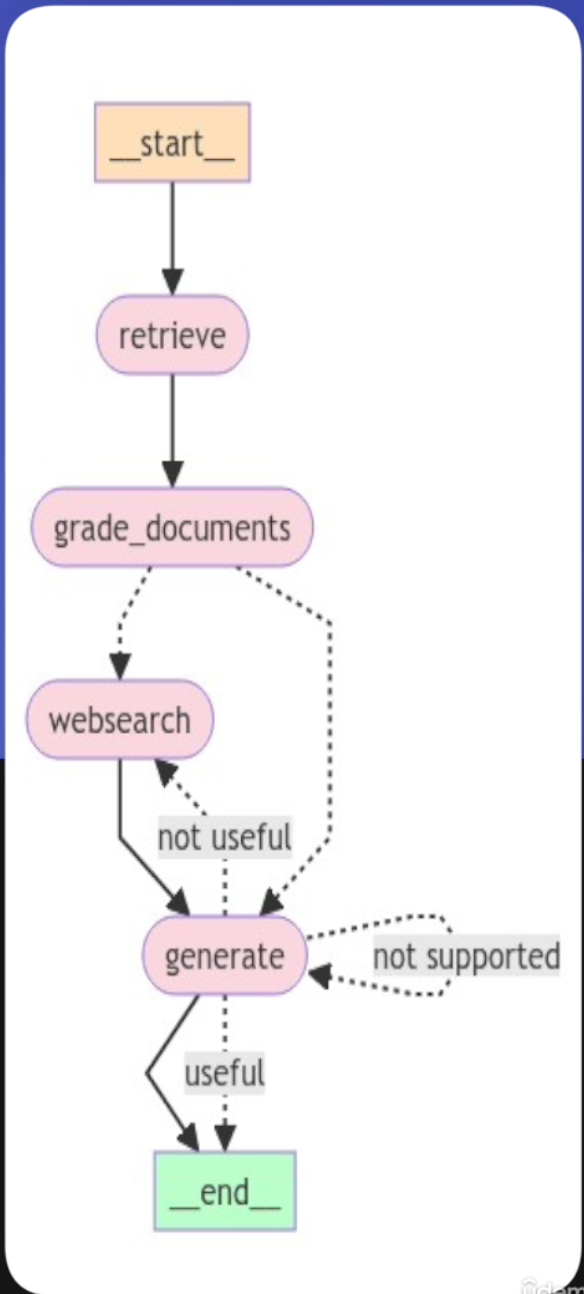
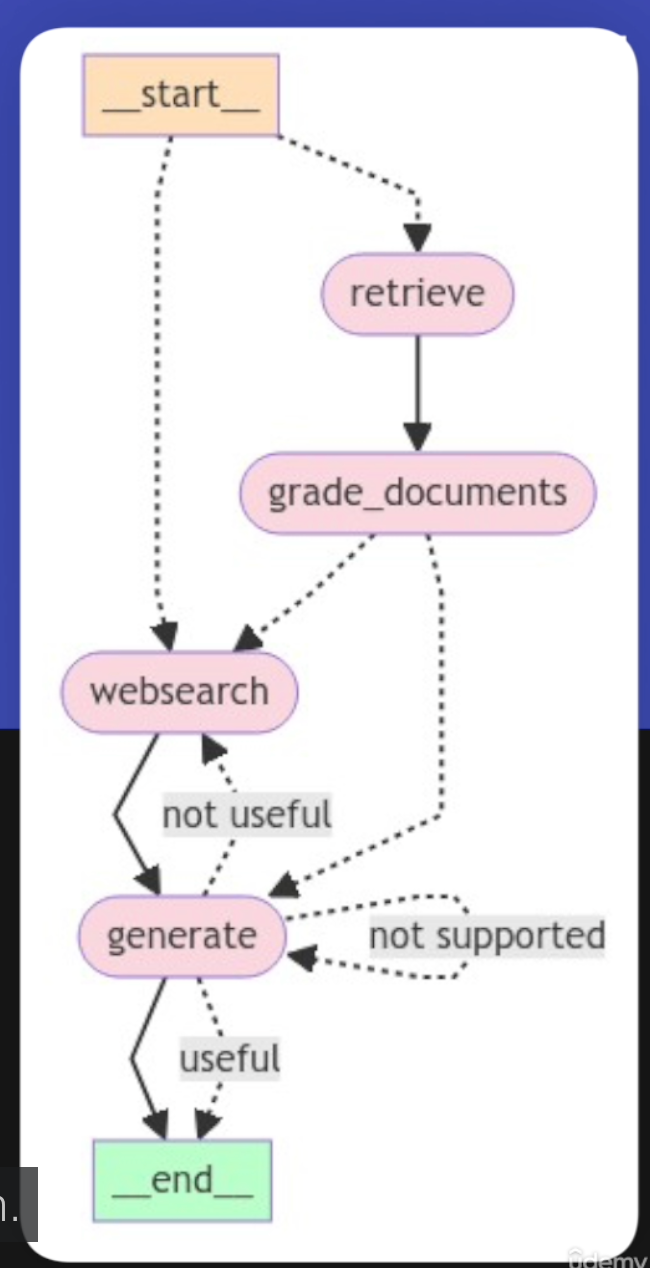
working adaptive RAG

Changed region(s): [[0.0, 0.0, 1.0, 1.0], [0.6473, 0.4614, 0.7089, 0.6459], [0.524, 0.123, 0.6164, 0.1538]]

diff --git a/graph/graph.py b/graph/graph.py
@@ -1,6 +1,7 @@
 from dotenv import load_dotenv
 from graph.chains.answer_grader import answer_grader_chain
 from graph.chains.hallucination_grader import hallucination_grader_chain
+from graph.chains.router import RouteQuery, router_chain
 from graph.const import GENERATE, GRADE_DOCUMENTS, WEB_SEARCH, RETRIEVE
 from langgraph.graph import END, StateGraph
 from graph.nodes import generate, grade_documents, retrive, web_search
@@ -37,6 +38,17 @@ def grade_generation_grounded_in_documents_and_question(state: GraphState):
         return "not supported"
         
 
+def route_question(state: GraphState):
+    print("==Routing Question==")
+    question = state['question']
+    res: RouteQuery = router_chain.invoke({"question": question})
+    if res.datasource == "vectorstore":
+        print("vector store")
+        return RETRIEVE
+    elif res.datasource == "websearch":
+        print("--web search--")
+        return WEB_SEARCH
+
 
 
 workflow = StateGraph(GraphState)
@@ -45,7 +57,10 @@ workflow.add_node(GRADE_DOCUMENTS, grade_documents)
 workflow.add_node(WEB_SEARCH, web_search)
 workflow.add_node(RETRIEVE, retrive)
 
-workflow.set_entry_point(RETRIEVE)
+workflow.set_conditional_entry_point(route_question, {
+    RETRIEVE: RETRIEVE, 
+    WEB_SEARCH: WEB_SEARCH
+})
 
 workflow.add_conditional_edges(GRADE_DOCUMENTS, decide_to_generate, {
     WEB_SEARCH: WEB_SEARCH, 

diff --git a/graph/chains/router.py b/graph/chains/router.py
@@ -1,0 +1,29 @@
+from langchain_openai import ChatOpenAI
+from dotenv import load_dotenv
+from typing import Literal
+from langchain_core.prompts import ChatPromptTemplate
+from pydantic import BaseModel, Field
+
+
+class RouteQuery(BaseModel):
+    """Route a user query to the most relevant datasource."""
+    datasource: Literal["vectorstore", "websearch"] = Field(
+        ..., #means this field will be required while instantiating an object of this class
+        description="Given a user question choose to route it to web search or a vectorstore."
+        )
+
+llm = ChatOpenAI(model="gpt-5-nano")
+llm_structured_output = llm.with_structured_output(RouteQuery)
+
+system = """You are an expert at routing a user question to a vectorstore or web search.
+The vectorstore contains documents related to agents, prompt engineering, and adversarial attacks.
+Use the vectorstore for questions on these topics. For all else, use web-search."""
+
+prompt = ChatPromptTemplate.from_messages([
+    ("system", system),
+    ("human", "{question}")
+])
+
+router_chain = prompt | llm_structured_output
+
+

diff --git a/README.md b/README.md
@@ -1,9 +1,8 @@
-It follows the Corrective RAG implemenation, but with additional Nodes: 
+It follows the C-RAG and S-RAG implemenation, but with additional Nodes: 
 
-1. We'll be adding Halucination Grader - if the answer is grounded in the documents
-    chain-> hallucination_grader
+1. We'll be adding Router - if we're fetching from vector store or from web will be it's functionality
+    chain-> router.py
+    
 
-2. We'll be adding Answer Grader - if the generated answer answer the question
-    chain-> answer_grader
     
 
